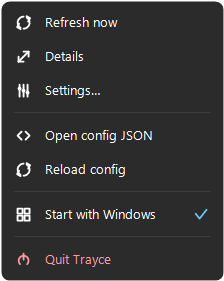
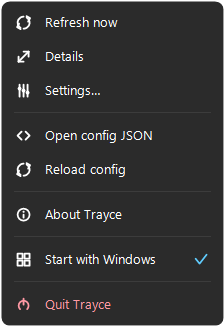
Add Trayce about dialog 1.1.7

diff --git a/Dialogs.cs b/Dialogs.cs
@@ -79,6 +79,83 @@ internal sealed class ToastForm : Form
     }
 }
 
+internal sealed class AboutForm : Form
+{
+    private const string GitHubUrl = "https://github.com/Geijoh/Trayce";
+    private const string PrivacyUrl = "https://github.com/Geijoh/Trayce/blob/main/PRIVACY.md";
+    private const string Disclaimer = "Product names, logos, and brands are property of their respective owners. Trayce is not affiliated with, endorsed by, or sponsored by those owners.";
+
+    public AboutForm()
+    {
+        Text = "About Trayce";
+        Icon = AppIcon.Load();
+        FormBorderStyle = FormBorderStyle.None;
+        StartPosition = FormStartPosition.CenterParent;
+        AutoScaleMode = AutoScaleMode.Dpi;
+        ClientSize = new Size(420, 438);
+        BackColor = UiPalette.Bg;
+        ForeColor = UiPalette.Text;
+        Font = UiFont.Px(12.5f);
+        ShowInTaskbar = false;
+        KeyPreview = true;
+        Padding = new Padding(1);
+
+        Controls.Add(new AppMark { Location = P(186, 54), Size = Z(48, 48) });
+        Controls.Add(Centered("Trayce", 118, 28, 21f, true, UiPalette.Text));
+        Controls.Add(Centered("Version " + (typeof(Program).Assembly.GetName().Version?.ToString(3) ?? "unknown"), 151, 20, 12.5f, false, UiPalette.Text2));
+        Controls.Add(Centered("Native Windows tray monitoring for API usage, health, and quota signals.", 180, 44, 12.5f, false, UiPalette.Text2));
+        Controls.Add(new Panel { Location = P(28, 242), Size = Z(364, 1), BackColor = UiPalette.Border });
+        Controls.Add(Centered("Created by Chris Johnson", 260, 20, 12.5f, true, UiPalette.Text));
+        Controls.Add(Centered("Copyright 2026 Chris Johnson. All rights reserved.", 284, 20, 12f, false, UiPalette.Text2));
+        Controls.Add(Centered(Disclaimer, 313, 44, 11.5f, false, UiPalette.Text3));
+
+        var close = new TitleGlyphButton("close") { Location = P(374, 16), Size = Z(28, 28) };
+        close.Click += (_, _) => Close();
+        Controls.Add(close);
+
+        var github = new RoundedButton("GitHub") { Glyph = "link", Size = Z(170, 34), Location = P(28, 384), Back = UiPalette.Control, Foreground = UiPalette.Text };
+        github.Click += (_, _) => OpenUrl(GitHubUrl);
+        var privacy = new RoundedButton("Privacy Policy") { Glyph = "info", Size = Z(176, 34), Location = P(216, 384), Back = UiPalette.Control, Foreground = UiPalette.Text };
+        privacy.Click += (_, _) => OpenUrl(PrivacyUrl);
+        Controls.Add(github);
+        Controls.Add(privacy);
+
+        KeyDown += (_, e) => { if (e.KeyCode == Keys.Escape) Close(); };
+    }
+
+    protected override void OnHandleCreated(EventArgs e)
+    {
+        base.OnHandleCreated(e);
+        NativeChrome.ApplyWindows11Corners(this);
+    }
+
+    protected override void OnPaint(PaintEventArgs e)
+    {
+        using var pen = new Pen(UiPalette.Border2);
+        e.Graphics.DrawRectangle(pen, 0, 0, Width - 1, Height - 1);
+    }
+
+    private Label Centered(string text, int y, int height, float px, bool bold, Color color) => new()
+    {
+        AutoSize = false,
+        Text = text,
+        TextAlign = ContentAlignment.MiddleCenter,
+        Location = P(30, y),
+        Size = Z(360, height),
+        ForeColor = color,
+        Font = UiFont.Px(px, bold)
+    };
+
+    private Point P(int x, int y) => new(Dpi.Scale(this, x), Dpi.Scale(this, y));
+    private Size Z(int width, int height) => new(Dpi.Scale(this, width), Dpi.Scale(this, height));
+
+    private static void OpenUrl(string url)
+    {
+        try { System.Diagnostics.Process.Start(new System.Diagnostics.ProcessStartInfo(url) { UseShellExecute = true }); }
+        catch { }
+    }
+}
+
 /// <summary>Prototype-style logo chooser: description, dashed drop/browse area, sample-file list, Cancel/Choose.</summary>
 internal sealed class LogoPickerForm : Form
 {

diff --git a/Program.cs b/Program.cs
@@ -160,6 +160,8 @@ internal sealed class TrayceContext : ApplicationContext
             new("Open config JSON", "code", OpenConfig),
             new("Reload config", "refresh", () => { Reload(); Toaster.Show(null, "Configuration reloaded"); }),
             TrayMenu.Item.Sep,
+            new("About Trayce", "info", ShowAbout),
+            TrayMenu.Item.Sep,
             new("Start with Windows", "windows", () =>
             {
                 var enable = !StartupStore.IsEnabled();
@@ -171,6 +173,12 @@ internal sealed class TrayceContext : ApplicationContext
         };
 
         new TrayMenu(items).ShowAt(Cursor.Position);
+    }
+
+    internal void ShowAbout()
+    {
+        using var form = new AboutForm();
+        form.ShowDialog();
     }
 
     internal void OpenConfig()
@@ -1397,6 +1405,7 @@ internal static class PreviewRenderer
         Capture(Path.Combine(dir, "dialog-json.png"), new JsonPreviewForm(SampleConfig()));
         Capture(Path.Combine(dir, "dialog-validation.png"), new ValidationForm(new[] { "API name can’t be empty.", "The limit for “Daily” must be greater than zero." }));
         Capture(Path.Combine(dir, "dialog-logo.png"), new LogoPickerForm(new ApiConfig { Id = "anthropic", DisplayName = "Anthropic", LogoText = "A", BrandColor = "#D97757" }));
+        Capture(Path.Combine(dir, "dialog-about.png"), new AboutForm());
         Capture(Path.Combine(dir, "overlay-quit.png"), new QuitForm(() => { }));
         Capture(Path.Combine(dir, "toast.png"), new ToastForm("Settings saved"));
     }
@@ -1426,6 +1435,8 @@ internal static class PreviewRenderer
         TrayMenu.Item.Sep,
         new("Open config JSON", "code", () => { }),
         new("Reload config", "refresh", () => { }),
+        TrayMenu.Item.Sep,
+        new("About Trayce", "info", () => { }),
         TrayMenu.Item.Sep,
         new("Start with Windows", "windows", () => { }, Checked: true),
         TrayMenu.Item.Sep,

diff --git a/Settings.cs b/Settings.cs
@@ -486,7 +486,7 @@ internal sealed class SettingsForm : Form
         {
             AutoSize = false,
             Location = P(41, 0),
-            Size = Z(260, 46),
+            Size = Z(168, 46),
             Text = "Trayce — Settings",
             TextAlign = ContentAlignment.MiddleLeft,
             ForeColor = UiPalette.Text2,
@@ -507,6 +507,8 @@ internal sealed class SettingsForm : Form
         var matchToggle = new ToggleSwitch(matchOn) { Size = Z(34, 18) };
         matchToggle.Click += (_, _) => ApplyTheme(UiPalette.Mode == ThemeMode.System ? (UiPalette.IsDark ? ThemeMode.Dark : ThemeMode.Light) : ThemeMode.System);
         var matchLabel = new Label { AutoSize = false, Text = "Match system", TextAlign = ContentAlignment.MiddleRight, ForeColor = UiPalette.Text2, Font = UiFont.Px(11.5f), Size = Z(104, 46) };
+        var about = new RoundedButton("About") { Glyph = "info", Size = Z(84, 28), TextPx = 12f, Back = UiPalette.Control, Foreground = UiPalette.Text2, BorderColor = UiPalette.Border2 };
+        about.Click += (_, _) => new AboutForm().ShowDialog(this);
 
         var traySeg = new SegmentedToggle(new[] { "Bars", "Ring", "Minimal" }, (int)UiPalette.Tray) { Size = Z(156, 26) };
         traySeg.SelectionChanged += (_, _) => ApplyTrayStyle((TrayStyle)traySeg.SelectedIndex);
@@ -515,6 +517,7 @@ internal sealed class SettingsForm : Form
         title.Controls.Add(trayLabel);
         title.Controls.Add(traySeg);
         title.Controls.Add(matchLabel);
+        title.Controls.Add(about);
         title.Controls.Add(matchToggle);
         title.Controls.Add(segment);
         title.Controls.Add(min);
@@ -533,7 +536,10 @@ internal sealed class SettingsForm : Form
             segment.Location = new Point(w - S(138) - S(12) - segment.Width, (h - segment.Height) / 2);
             matchToggle.Location = new Point(segment.Left - S(12) - matchToggle.Width, (h - matchToggle.Height) / 2);
             matchLabel.Location = new Point(matchToggle.Left - matchLabel.Width - S(2), 0);
-            traySeg.Location = new Point(matchLabel.Left - S(14) - traySeg.Width, (h - traySeg.Height) / 2);
+            about.Visible = w >= S(920);
+            about.Location = new Point(matchLabel.Left - S(12) - about.Width, (h - about.Height) / 2);
+            var trayRight = about.Visible ? about.Left - S(14) : matchLabel.Left - S(14);
+            traySeg.Location = new Point(trayRight - traySeg.Width, (h - traySeg.Height) / 2);
             trayLabel.Location = new Point(traySeg.Left - trayLabel.Width - S(2), 0);
         }
 